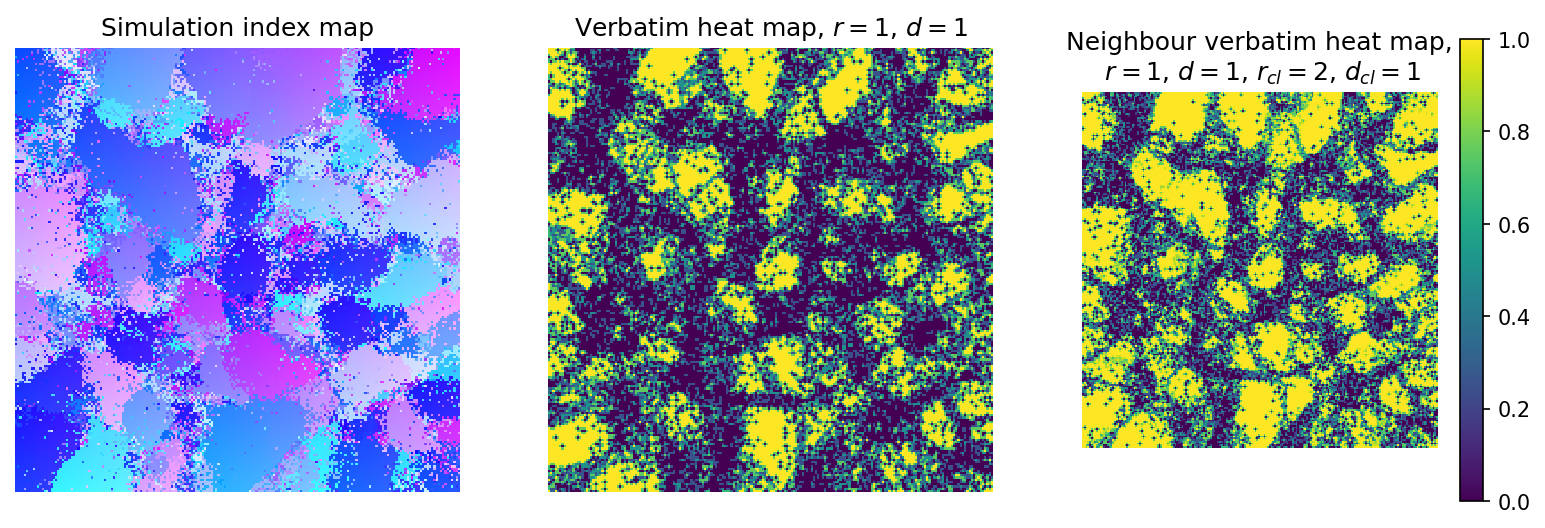
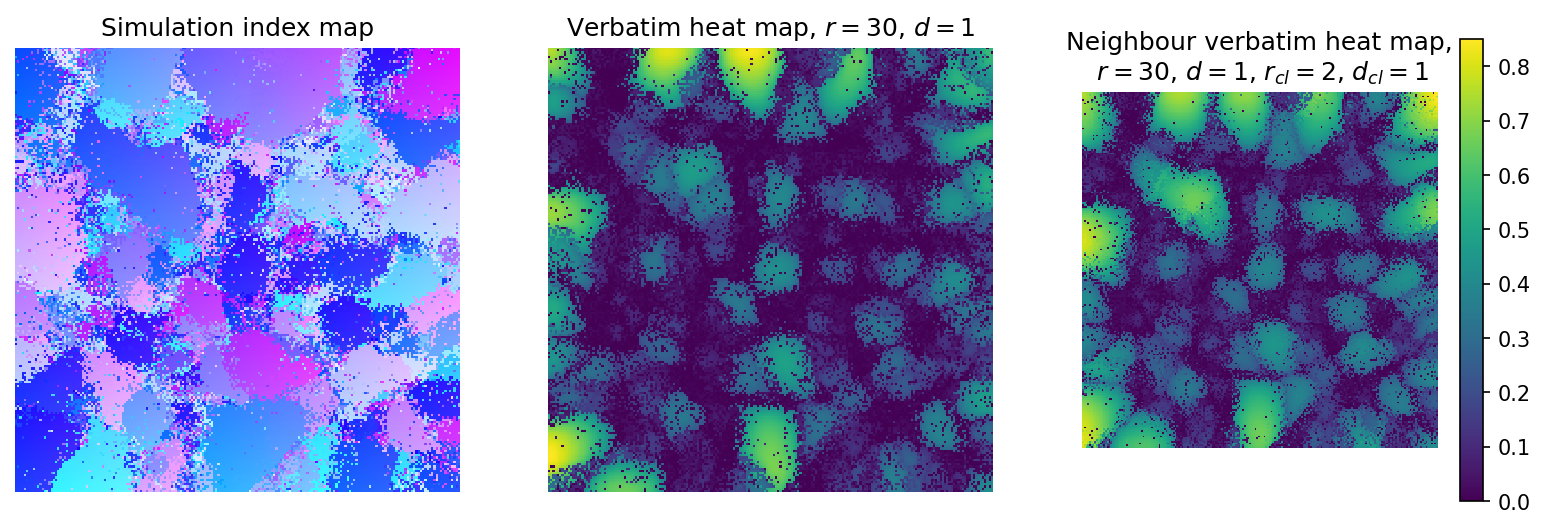
Update figures and tables

diff --git a/verbatim_copy.py b/verbatim_copy.py
@@ -10,7 +10,7 @@ from src.verbatim_heat_map_creator import VerbatimHeatMapCreator
 
 # ----- Verbatim copy statistic: -----
 # --- Custom variables ---
-inv_dist_weight_exp = 1
+inv_dist_weight_exp = 0
 
 # seed(123456)
 # ---
@@ -25,8 +25,7 @@ for path in os.listdir(directory):
         file = np.load(full_path)
         n = 170
         verbatim_indices = []
-        filter_radi = range(1, 51)
-        filter_radi = [1]
+        filter_radi = [1, 2, 3, 4, 5, 7, 10, 15, 20, 30, 45, 50]
         fn, fn2, k = path.replace('.npz', '').split('_')
         file_name = f"{fn} {fn2}"
         index_map = file['indexMap'][n, :, :]
@@ -43,7 +42,7 @@ for path in os.listdir(directory):
         # index_map, patch_percentage = index_map_creator.create_long_range_map(0.10)
 
         fig, ((ax1, ax2), (ax3, ax4)) = plt.subplots(2, 2, figsize=(6, 6))
-        fig.suptitle(f'QS \'stone\', k={k}, n={n}', size='xx-large')
+        fig.suptitle(f'QS \'stone\', $k={k}$, $n={n}$', size='xx-large')
         ax1.imshow(ti)
         ax1.set_title('Training image')
         ax1.axis('off')
@@ -71,8 +70,8 @@ for path in os.listdir(directory):
             # _, nw_max_heat_threshold = heat_map_creator.noise_heat_statistics(index_map.shape, filter_radius, 0)
             noise_scalar = 100
             nw_max_heat_threshold *= noise_scalar
-            heat_map_including_neighbours = \
-               heat_map_creator.get_verbatim_heat_map_filter_basis(filter_radius, inv_dist_weight_exp, 2, 1)
+            # heat_map_including_neighbours = \
+            #    heat_map_creator.get_verbatim_heat_map_filter_basis(filter_radius, inv_dist_weight_exp, 2, 1)
             long_range_heat_map = \
                 heat_map_creator.get_verbatim_heat_map_filter_basis(filter_radius, 1, inverse_distance_weighted=True)
 
@@ -88,22 +87,22 @@ for path in os.listdir(directory):
             patch_number, largest_patch_size, mean_patch_size = HeatMapAnalysis(non_weighted_heat_map).patch_stats(
                 heat_treshold=nw_max_heat_threshold,
                 patch_size_treshold=5,
-                plot=True
+                plot=False
             )
 
-            fig, (ax1, ax2, ax3) = plt.subplots(1, 3, figsize=(13, 4))
-            ax1.imshow(np.reshape(sourceIndex, (-1, 3))[index_map], interpolation='none')
-            ax1.set_title(f'Simulation index map')
-            ax1.axis('off')
-            ax2.imshow(heat_map, interpolation='none')
-            ax2.set_title(f'Verbatim heat map, $r={filter_radius}$, $d={inv_dist_weight_exp}$')
-            ax2.axis('off')
-            heat_map_im = ax3.imshow(heat_map_including_neighbours, interpolation='none')
-            ax3.set_title(f'Neighbour verbatim heat map,\n $r={filter_radius}$, $d={inv_dist_weight_exp}$, $r_{{cl}}={2}$, $d_{{cl}}={1}$')
-            ax3.axis('off')
-            fig.colorbar(heat_map_im, ax=ax3)
-            plt.savefig(f'output/heat_map_example.png', bbox_inches='tight', dpi=150)
-            plt.show()
+            # fig, (ax1, ax2, ax3) = plt.subplots(1, 3, figsize=(13, 4))
+            # ax1.imshow(np.reshape(sourceIndex, (-1, 3))[index_map], interpolation='none')
+            # ax1.set_title(f'Simulation index map')
+            # ax1.axis('off')
+            # ax2.imshow(heat_map, interpolation='none')
+            # ax2.set_title(f'Verbatim heat map, $r={filter_radius}$, $d={inv_dist_weight_exp}$')
+            # ax2.axis('off')
+            # heat_map_im = ax3.imshow(heat_map_including_neighbours, interpolation='none')
+            # ax3.set_title(f'Neighbour verbatim heat map,\n $r={filter_radius}$, $d={inv_dist_weight_exp}$, $r_{{cl}}={2}$, $d_{{cl}}={1}$')
+            # ax3.axis('off')
+            # fig.colorbar(heat_map_im, ax=ax3)
+            # plt.savefig(f'output/heat_map_example.png', bbox_inches='tight', dpi=150)
+            # plt.show()
 
             print(f"--- Filter_radius: {filter_radius} ---")
             print(f"Global statistics:")
@@ -120,27 +119,29 @@ for path in os.listdir(directory):
             print("---\n")
 
             #  --- Do plotting ---
-            fig, (ax1, ax2, ax3) = plt.subplots(1, 3, figsize=(11, 4))
-            fig.suptitle(f'{file_name}, k={k}, r={filter_radius}, d={inv_dist_weight_exp}', size='xx-large')
-            ax1.imshow(ti)
-            ax1.set_title('Training image')
-            ax1.axis('off')
-            ax2.imshow(simulation)
-            ax2.set_title('Simulation')
-            # ax2.imshow(long_range_heat_map)
-            # ax2.set_title(f'LR mean heat value={long_range_mean_heat_value}')
-            ax2.axis('off')
-            sim_img = ax3.imshow(heat_map, interpolation='none')
-            ax3.set_title(f'MHV={round(dist_weighted_mean_heat_value, 3)}, PROP={round(proportion_above_stat, 3)}')
-            ax3.axis('off')
-            fig.colorbar(sim_img, ax=ax3)
-            plt.show()
+            # fig, (ax1, ax2, ax3) = plt.subplots(1, 3, figsize=(11, 4))
+            # fig.suptitle(f'{file_name}, $k={k}$, $r={filter_radius}$, $d={inv_dist_weight_exp}$', size='xx-large')
+            # ax1.imshow(ti)
+            # ax1.set_title('Training image')
+            # ax1.axis('off')
+            # ax2.imshow(simulation)
+            # ax2.set_title('Simulation')
+            # # ax2.imshow(long_range_heat_map)
+            # # ax2.set_title(f'LR mean heat value={long_range_mean_heat_value}')
+            # ax2.axis('off')
+            # sim_img = ax3.imshow(heat_map, interpolation='none')
+            # ax3.set_title(f'MHV={round(dist_weighted_mean_heat_value, 3)}, PROP={round(proportion_above_stat, 3)}')
+            # ax3.axis('off')
+            # fig.colorbar(sim_img, ax=ax3)
+            # plt.show()
 
             # plt.hist(list(heat_map.reshape(40000)), bins=100)
             # plt.show()
 
         plt.scatter(filter_radi, verbatim_indices, color="red")
-        plt.xlabel('Filter radius')
-        plt.ylabel('Verbatim index')
-        plt.title(f'Filter radius to verbatim index - {file_name}, k={k}, d={inv_dist_weight_exp}')
+        plt.xlabel('$r$')
+        plt.ylabel('$MHV$')
+        file_name_pretty = file_name.replace("stone", "'stone'")
+        plt.title(f'Filter radius to $MHV$ - {file_name_pretty} $k={k}$, $n={n}$, $d={inv_dist_weight_exp}$')
+        plt.savefig(f'output/filter_radius_to_mhv.png', bbox_inches='tight', dpi=150)
         plt.show()

diff --git a/visual_validation.py b/visual_validation.py
@@ -58,6 +58,8 @@ non_weighted_heat_map_l = heat_map_creator.get_verbatim_heat_map_filter_basis(ma
 proportion_above_stat_s = HeatMapAnalysis(non_weighted_heat_map_s).above_treshold_heat_map(100 * max_noise_heat_s)
 proportion_above_stat_l = HeatMapAnalysis(non_weighted_heat_map_l).above_treshold_heat_map(100 * max_noise_heat_l)
 
+
+print(proportion_above_stat_s)
 # Critical area:
 critical_verbatim_area = (proportion_above_stat_l > 0.3) & (proportion_above_stat_s > 0.3) & (heat_map > 0.3)
 
@@ -74,13 +76,12 @@ ax3.axis('off')
 ax4.axis('off')
 ax2.imshow(simulation, interpolation='none')
 ax2.set_title(f'QSsim \'{sim_type}\' $k={k}$, $n={n}$')
-
 ax3.set_title('Source verbatim patches')
 ax3.imshow(np.where(ti_indices, ti, 0), interpolation='none')
 
 ax4.imshow(filtered_sim, interpolation='none')
 ax4.set_title('Simulation verbatim patches')
 
-fig.suptitle('Visual validation of verbatim patches, $HV > 0.3, TNA_s > 0.3, TNA_l > 0.3$')
+fig.suptitle('Visual validation of verbatim patches, $HV > 0.3, TNA_s = 1, TNA_l = 1$')
 plt.savefig(f'output/visual_validation/k={k}, n={n}.png', bbox_inches='tight', dpi=150)
 plt.show()
